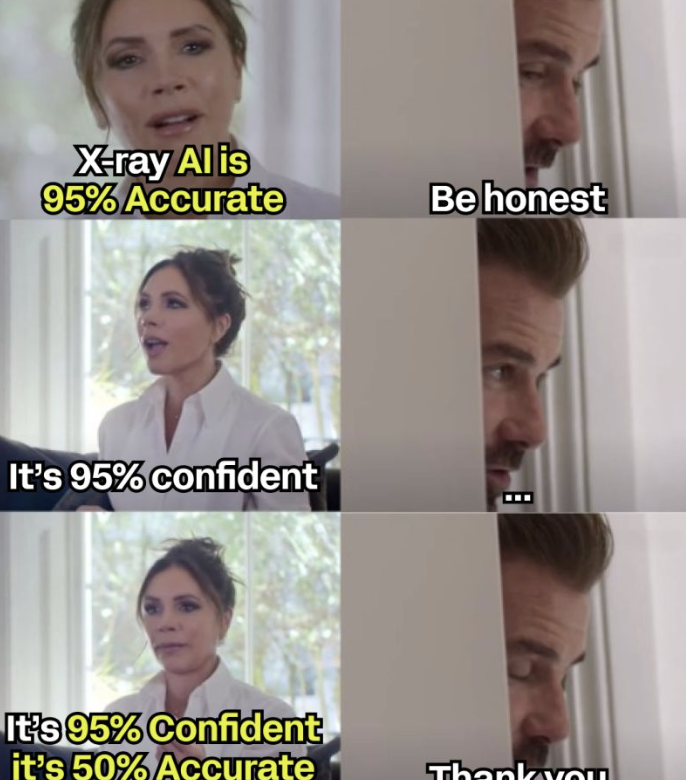
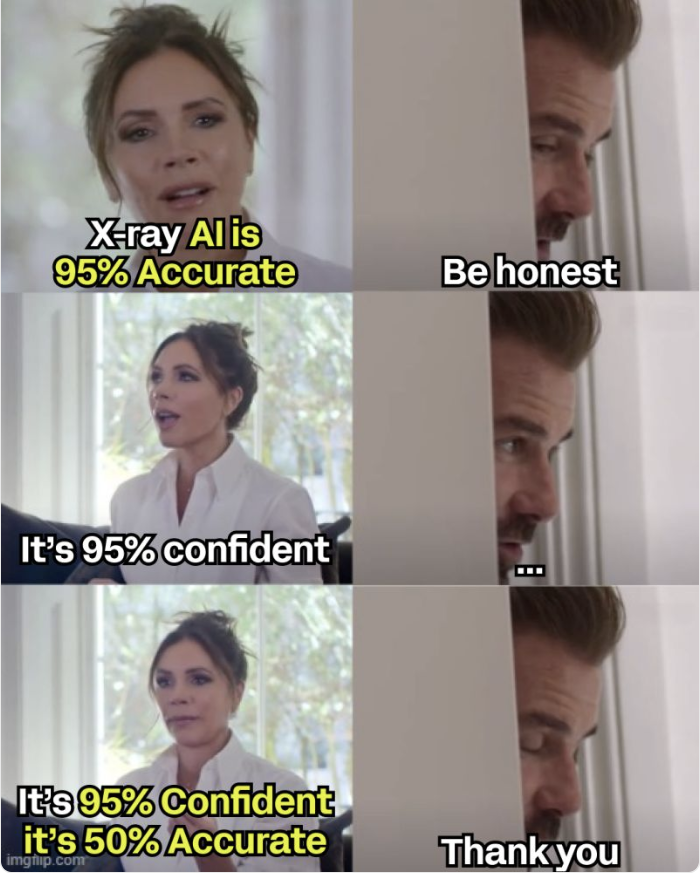
fix: re-crop Ciriello meme to include third panel
The previous asset was cropped mid-meme, hiding the "Thank you" punchline
in the bottom-right panel. Re-extracted from the LinkedIn screenshot using
content-bounds detection (now 700×873 instead of 686×780). Reverted CSS
breathing-room tweak since the real issue was the PNG itself.

diff --git a/index.html b/index.html
@@ -479,7 +479,7 @@
         <div style="display: grid; grid-template-columns: 1.1fr 1fr; gap: 32px; align-items: center;">
           <div style="display: flex; flex-direction: column; align-items: center;">
             <div style="background: var(--heads-bg-soft); padding: 14px; border-radius: 4px; max-height: 420px;">
-              <img src="assets/ciriello-meme-only.png" alt="Ciriello dental X-ray meme" style="max-width: 100%; max-height: 376px; object-fit: contain; display: block;">
+              <img src="assets/ciriello-meme-only.png" alt="Ciriello dental X-ray meme" style="max-width: 100%; max-height: 392px; object-fit: contain; display: block;">
             </div>
             <p class="heads-source-line">Meme via Dr. Chris Ciriello on LinkedIn — re-aggregated by Andrew Harrison</p>
           </div>
